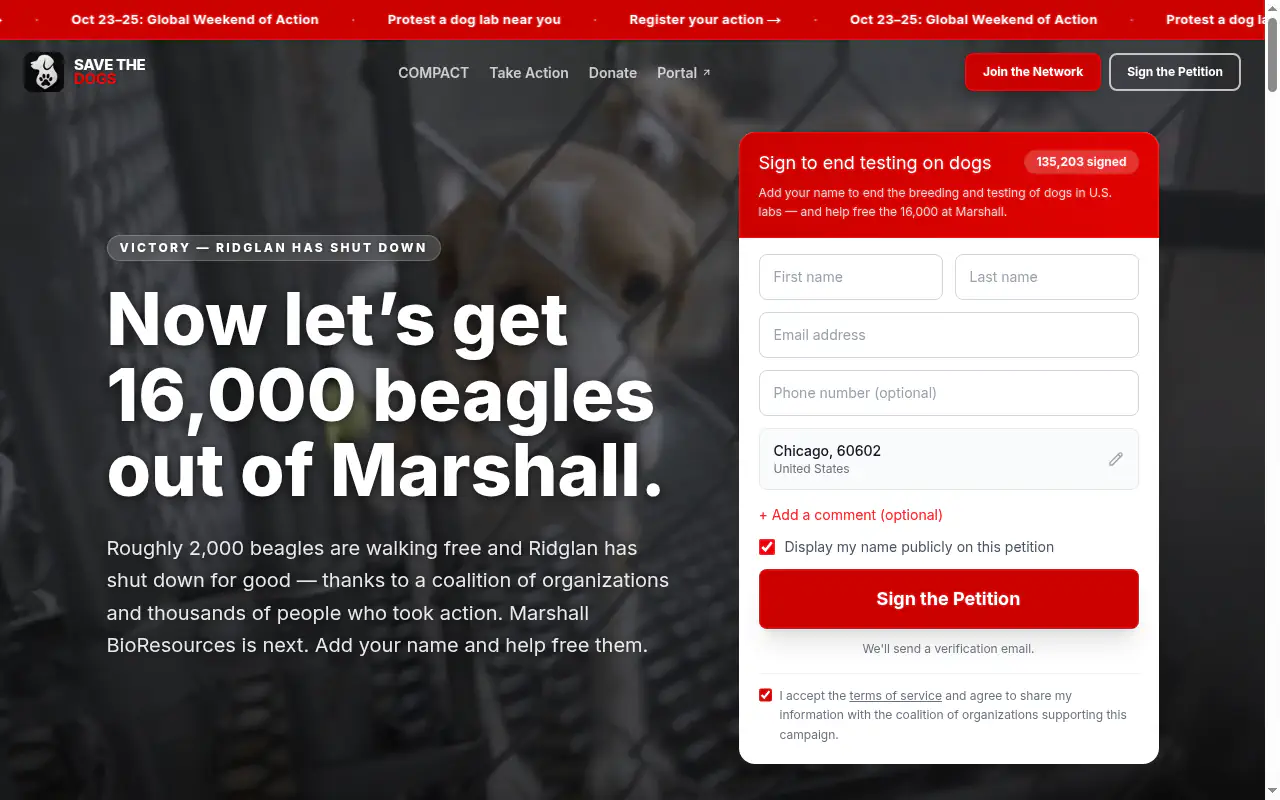
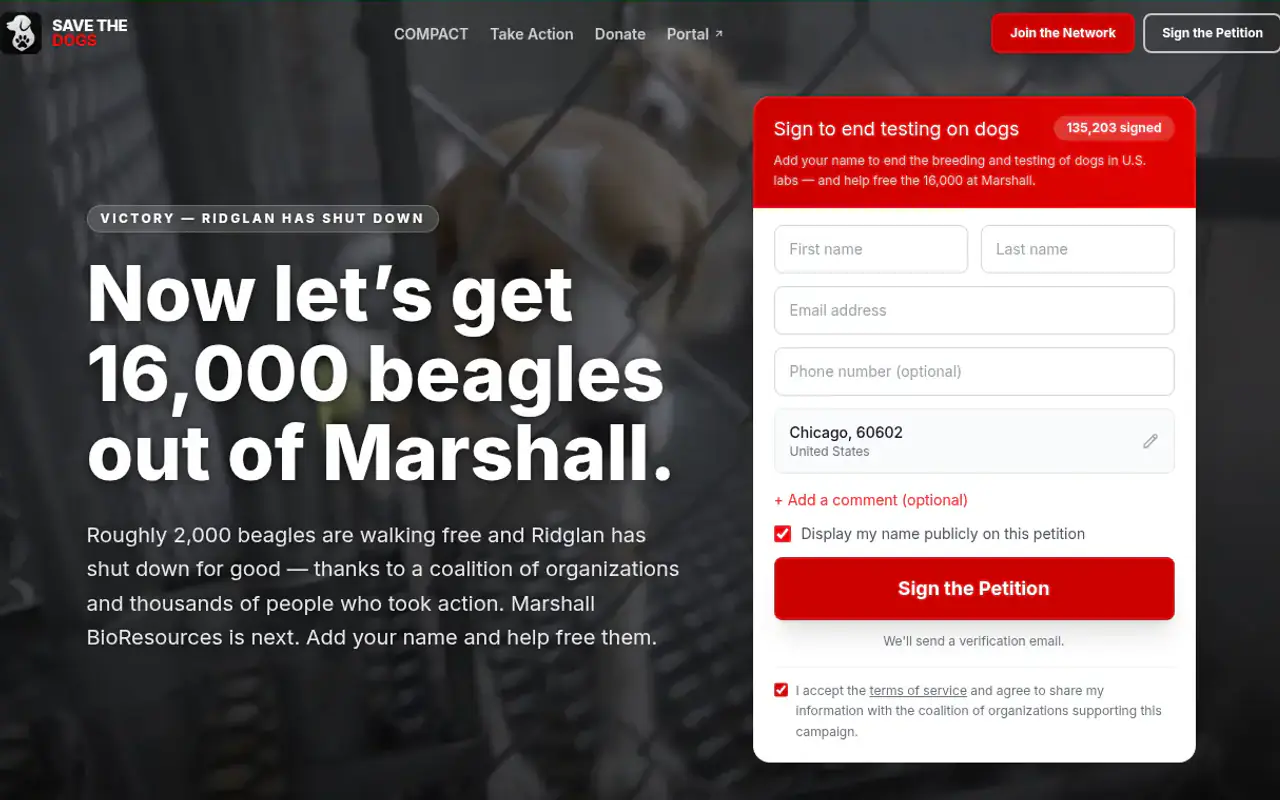
AA-29: crop savethedogs.io's dated event ticker off the SaveTheDogs card picture
The top 40 px of the 1280x800 capture was the site's red ticker, "Oct 23–25:
Global Weekend of Action · Register your action →", an event that ended
10-25. savethedogs.io is frozen, so a retake would show it again: crop
rows 41-800, x 24-1239 (logo to the petition button; also drops the
scrollbar) and rescale to 1280x800 / 640x400 (16:10 kept). Alt unchanged.
Sizes 55704 / 22886 B, inside the PAGE-05 budgets.

HOME-13 gains "no dated banners" and a test that no row in the top 40
(1280) / 20 (640) averages ticker red (R > 180, G < 60). It fails on
4822bad's pictures (row 0: R 204, G 4) and passes now.

diff --git a/docs/testing/FEATURES.md b/docs/testing/FEATURES.md
@@ -284,7 +284,7 @@ Where Stripe returns the donor. The page reads `type` (`once` or `monthly`) and 
 | HOME-10 | Hero, web-tablet landscape (iPad 1180x820) | Two columns: text left, portrait right; both CTAs on the first screen | NONE | content.spec › HOME-10 |
 | HOME-11 | Hero, single-column tablet band (600, 768, 820, 859 px) | No sideways scroll at any of the four widths | NONE | content.spec › HOME-11 |
 | HOME-12 | Product card status and last-changed month (2026-10-21) | Badge is Live, Private beta or Coming soon; a product with an `updated` month shows "Updated <Month YYYY>" under its pitch | NONE | content.spec › HOME-12 |
-| HOME-13 | Product card screenshots (AA-28, 2026-10-21) | Every product with a site has a screenshot at `/products/<slug>-640.webp` (640x400) and `-1280.webp` (1280x800), both in public/. Its alt is non-empty, starts with the product name, quotes the hero text shown in the picture, and is unique. When a pitch changes, the screenshot is retaken (Steel, 1280x800, light) and the alt updated: the card copy and its picture must not disagree (PausePal showed "Every week." after #43). | NONE | product-screenshots.test › HOME-13 every product screenshot exists at 640x400 and 1280x800 as WebP, named for its product; product-screenshots.test › HOME-13 every product screenshot has a non-empty alt that names the product and quotes its hero text; pages.spec › PAGE-01 (the images decode) |
+| HOME-13 | Product card screenshots (AA-28, 2026-10-21; no dated banners, AA-29, 2026-10-29) | Every product with a site has a screenshot at `/products/<slug>-640.webp` (640x400) and `-1280.webp` (1280x800), both in public/. Its alt is non-empty, starts with the product name, quotes the hero text shown in the picture, and is unique. When a pitch changes, the screenshot is retaken (Steel, 1280x800, light) and the alt updated: the card copy and its picture must not disagree (PausePal showed "Every week." after #43). No dated banners: a capture shows no event ticker or dated call to action that can go stale (SaveTheDogs showed "Oct 23–25: Global Weekend of Action" after 10-25; its capture is cropped below the ticker, since the frozen site would show it again on a retake). | NONE | product-screenshots.test › HOME-13 every product screenshot exists at 640x400 and 1280x800 as WebP, named for its product; product-screenshots.test › HOME-13 every product screenshot has a non-empty alt that names the product and quotes its hero text; product-screenshots.test › HOME-13 no dated banner: the SaveTheDogs capture starts below the site’s red event ticker (AA-29); pages.spec › PAGE-01 (the images decode) |
 
 ## 9. Writing feed (build time)
 
